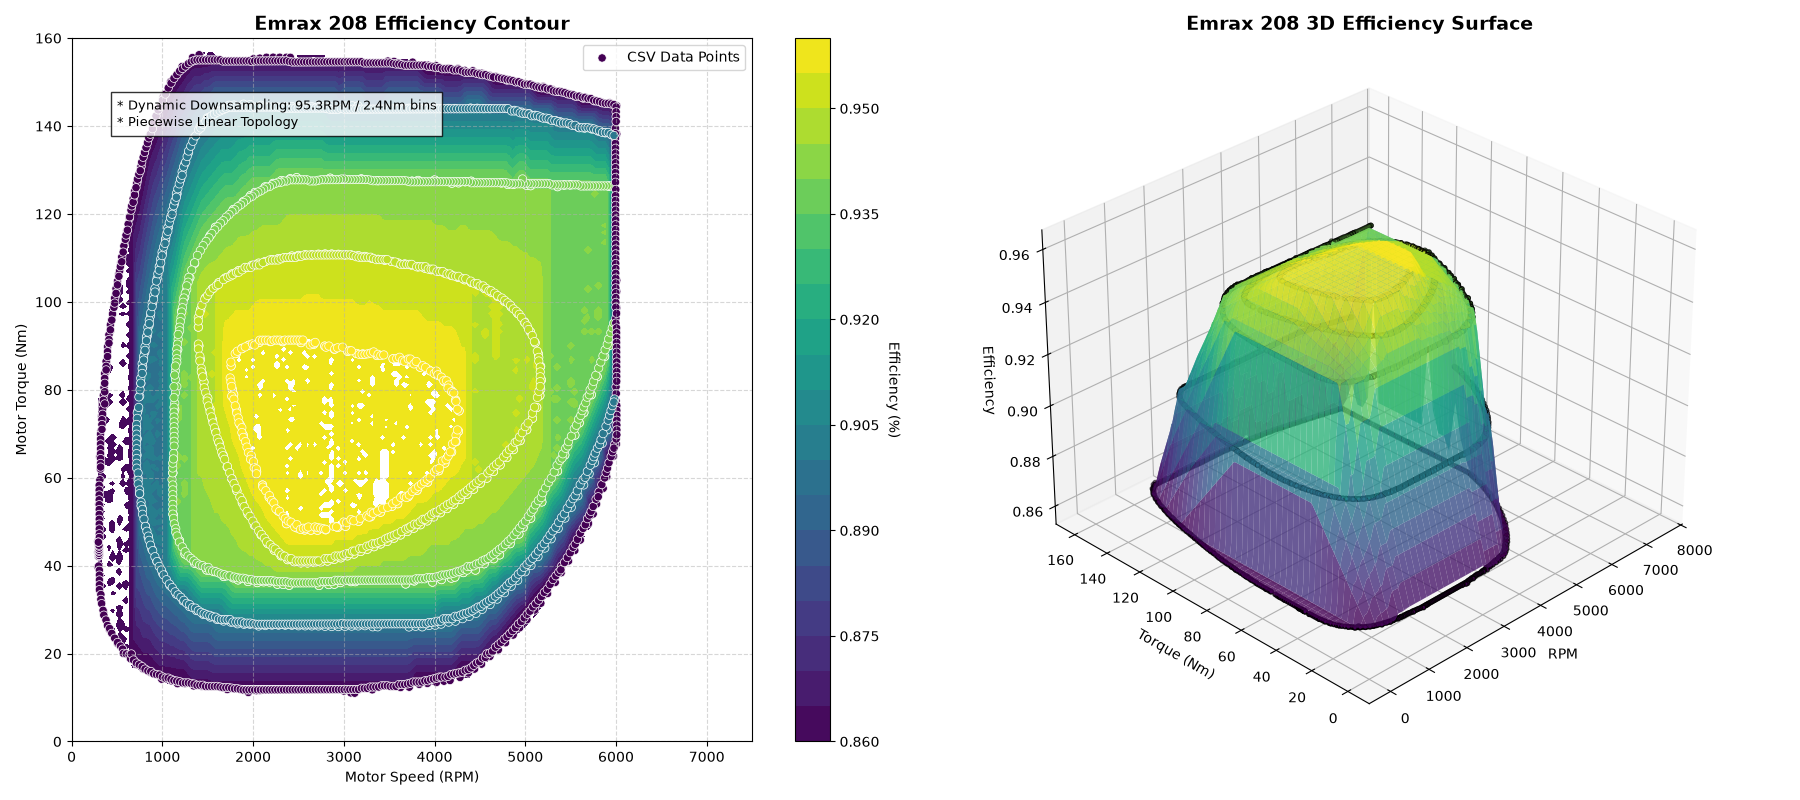
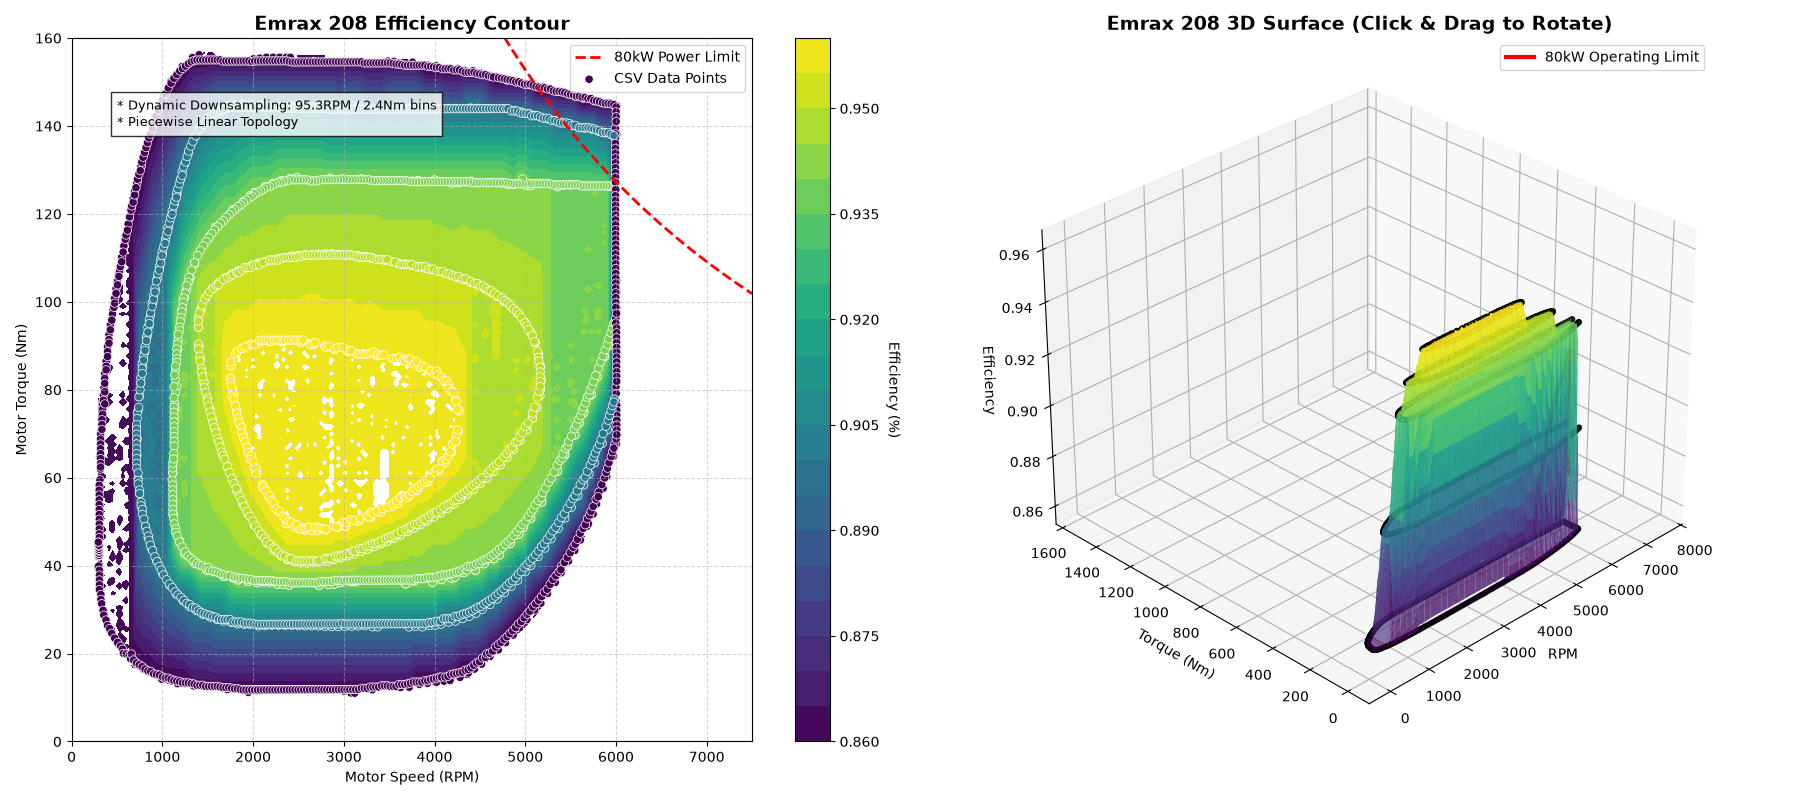
3d efficiency graph

diff --git a/ai sim/simulation/motor.py b/ai sim/simulation/motor.py
@@ -321,11 +321,18 @@ if __name__ == "__main__":
         contour = ax1.contourf(RPM, TORQUE, EFF, levels=20, cmap='viridis')
         cbar = fig.colorbar(contour, ax=ax1)
         cbar.set_label('Efficiency (%)', rotation=270, labelpad=15)
+
+        # Plot 80kW Power Limit Curve (Torque = Power / Omega)
+        rpm_limit_x = np.linspace(500, 7500, 500)
+        torque_limit_y = 80000 / (rpm_limit_x * 2 * np.pi / 60)
+        ax1.plot(rpm_limit_x, torque_limit_y, 'r--', linewidth=2, label='80kW Power Limit')
+
         ax1.scatter(motor._raw_data[:, 0], motor._raw_data[:, 1], c=motor._raw_data[:, 2], 
                     cmap='viridis', edgecolors='white', linewidths=0.5, label='CSV Data Points')
         ax1.set_title(f'{motor.name} Efficiency Contour', fontsize=14, fontweight='bold')
         ax1.set_xlabel('Motor Speed (RPM)')
         ax1.set_ylabel('Motor Torque (Nm)')
+        ax1.set_ylim(0, 160) # Ensure hyperbola doesn't stretch Y-axis at low RPM
         ax1.grid(True, linestyle='--', alpha=0.5)
         ax1.legend()
         
@@ -337,6 +344,11 @@ if __name__ == "__main__":
         ax2 = fig.add_subplot(1, 2, 2, projection='3d')
         # Plot the surface - antialiased=True helps with visual clarity during rotation
         surf = ax2.plot_surface(RPM, TORQUE, EFF, cmap='viridis', edgecolor='none', alpha=0.8, antialiased=True)
+
+        # Project the 80kW limit onto the efficiency surface for 3D visualization
+        eff_at_limit = motor.efficiency_map(rpm_limit_x, torque_limit_y)
+        ax2.plot(rpm_limit_x, torque_limit_y, eff_at_limit, 'r-', linewidth=3, label='80kW Operating Limit')
+
         # Add 3D scatter to show raw points on the surface
         ax2.scatter(motor._raw_data[:, 0], motor._raw_data[:, 1], motor._raw_data[:, 2], 
                    c=motor._raw_data[:, 2], cmap='viridis', edgecolors='black', s=10)
@@ -347,6 +359,7 @@ if __name__ == "__main__":
         ax2.set_zlabel('Efficiency')
         ax2.view_init(elev=30, azim=225) # Standard angle to see the torque vs RPM curve clearly
         ax2.mouse_init() # Explicitly initialize mouse interaction
+        ax2.legend()
 
         plt.tight_layout()
         # Save first, then show. In some backends, plt.show() clears the figure event loop on close.
